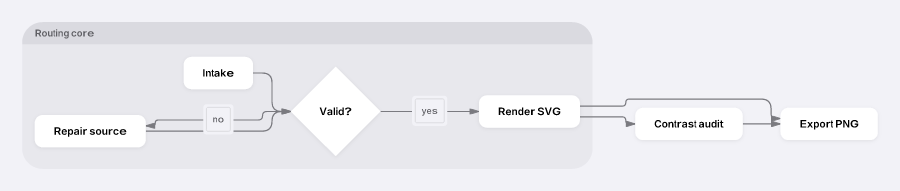
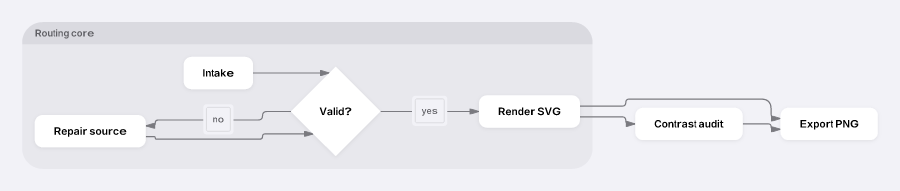
Refresh independently reviewed routing geometry and Cupertino goldens

diff --git a/eval/style-prototype-evidence/rounded-axis-correctness-review.md b/eval/style-prototype-evidence/rounded-axis-correctness-review.md
@@ -9,3 +9,14 @@ Before/after images were inspected at native 900px width. Exactly 44 pixels chan
 The other five existing cookbook entries were generated through the unchanged script and are byte-identical to their committed images. Only the Cupertino PNG and its recorded digest change. This records agent review, not human approval, exact font-outline certification or universal backend parity.
 
 The full diagnostic sources/options, actual before/after SVGs and PNGs are retained by the PR correctness review. No product cap, route guard or semantic assertion was relaxed.
+
+
[1 lines of base64/hex data omitted]
+
+Against the prior reviewed image, exactly 1,000 pixels change in (145, 70)–(780, 139). The only non-scope XML changes are three relationship paths: Intake→Validate, Repair→Validate and Audit→Export. Nodes, group geometry, styles, all semantic attributes, the seven authored relationships, Core's four members and all nine prepared text elements are unchanged. Against the intermediate `888` image, 5,124 pixels change in (145, 70)–(881, 144); Export returns to its prior vertical position while retaining separated incoming markers.
+
+Independent serialized-geometry readback checks 48 nonzero cardinal L/Q tangent vectors, 21 pairs of complete marker envelopes, foreign marker/shaft/card separations, both actual opaque label halos and the full Core header. The two Export marker anchors are 13.633333333px apart, leaving 5.008333333px between their complete unclipped stroke envelopes. The six node/decision labels, two edge captions and group header are readable in the actual raster; agent reviewers found no visual regression.
+
+The endpoint statement is deliberately finite: 13 contacts have exact equality with a served shape face or vertex. Intake's horizontal endpoint is `146087499999/566499999997000000000`px outside the independently written diamond facet (about 2.58×10⁻¹⁰px). Its outward direction and actual clipped round-tip stroke/body contact are proved exactly; centerline equality is not asserted or accepted using a tolerance. This review does not claim exhaustive font-outline or shadow-filter certification.
+
+The existing cookbook owner reproduced the approved Cupertino PNG bytes at both `4461bc8b7aca0e509240eeff05dba96ecc346f03` and `04c52334046b46bd57a9b74ad296270661a861f3`. The later target-only fallback applies to same-direction duplicate edges, which this seven-edge fixture does not contain. The separate transit-map screenshot mismatch remains unapproved and is outside this artifact review. The Vercel and Cloudflare artifact hashes are unchanged. The SVG/PNG/model and exact readback are retained with the PR evidence. This records agent review, not human approval or a new general paint theorem.
